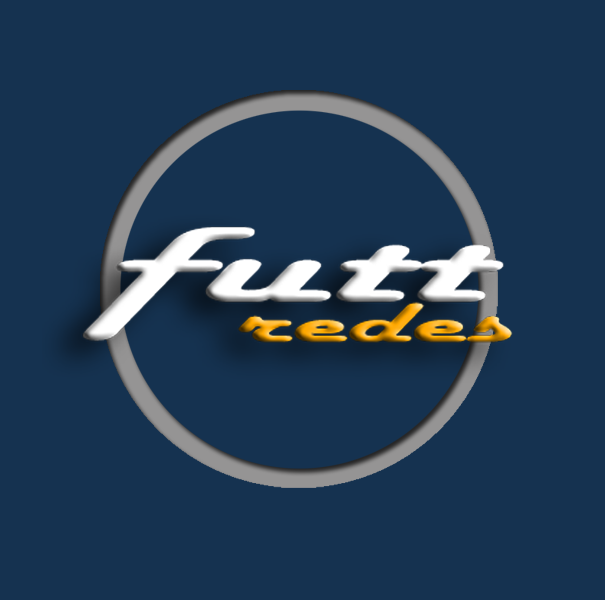
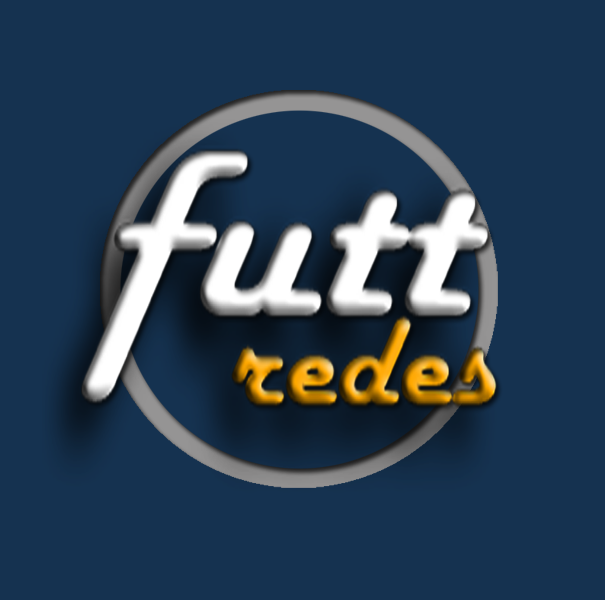
Ajustes gerais.

Changed region(s): [[0.0893, 0.24, 0.8628, 0.78]]

diff --git a/lib/futt/view/LoginView.dart b/lib/futt/view/LoginView.dart
@@ -209,7 +209,7 @@ class _LoginViewState extends State<LoginView> {
       body: Container(
         decoration: BoxDecoration(
             image: DecorationImage(
-                image: AssetImage("images/fundo.jpg"),
+                image: AssetImage("images/fundo2.jpg"),
                 fit: BoxFit.fill
             )
         ),
@@ -220,7 +220,7 @@ class _LoginViewState extends State<LoginView> {
               crossAxisAlignment: CrossAxisAlignment.stretch,
               children: <Widget>[
                 Padding(
-                  padding: EdgeInsets.only(top: 20),
+                  padding: EdgeInsets.only(top: 1),
                   child: Image.asset("images/logoFuttRedes.png", height: 100, width: 75),
                 ),
                 /*Padding(
@@ -249,7 +249,7 @@ class _LoginViewState extends State<LoginView> {
                   child: Container(
                     padding: EdgeInsets.all(20),
                     decoration: BoxDecoration(
-                      color: Color(0xff086ba4).withOpacity(0.5),
+                      color: Color(0xff086ba4).withOpacity(0.9),
                       borderRadius: BorderRadius.circular(5.0),
                       border: Border.all(
                         width: 1.0

diff --git a/lib/futt/model/JogoRedeModel.dart b/lib/futt/model/JogoRedeModel.dart
@@ -130,7 +130,7 @@ class JogoRedeModel {
   }
 
   String get apelidoFormatadoJogador1 {
-    if (this.apelidoJogador1 == null) {
+    if (this.apelidoJogador1 == null || this.apelidoJogador1.trim() == "") {
       return nomeJogador1;
     }else{
       return apelidoJogador1;
@@ -138,7 +138,7 @@ class JogoRedeModel {
   }
 
   String get apelidoFormatadoJogador2 {
-    if (this.apelidoJogador2 == null) {
+    if (this.apelidoJogador2 == null || this.apelidoJogador2.trim() == "") {
       return nomeJogador2;
     }else{
       return apelidoJogador2;
@@ -146,7 +146,7 @@ class JogoRedeModel {
   }
 
   String get apelidoFormatadoJogador3 {
-    if (this.apelidoJogador3 == null) {
+    if (this.apelidoJogador3 == null || this.apelidoJogador3.trim() == "") {
       return nomeJogador3;
     }else{
       return apelidoJogador3;
@@ -154,7 +154,7 @@ class JogoRedeModel {
   }
 
   String get apelidoFormatadoJogador4 {
-    if (this.apelidoJogador4 == null) {
+    if (this.apelidoJogador4 == null || this.apelidoJogador4.trim() == "") {
       return nomeJogador4;
     }else{
       return apelidoJogador4;
